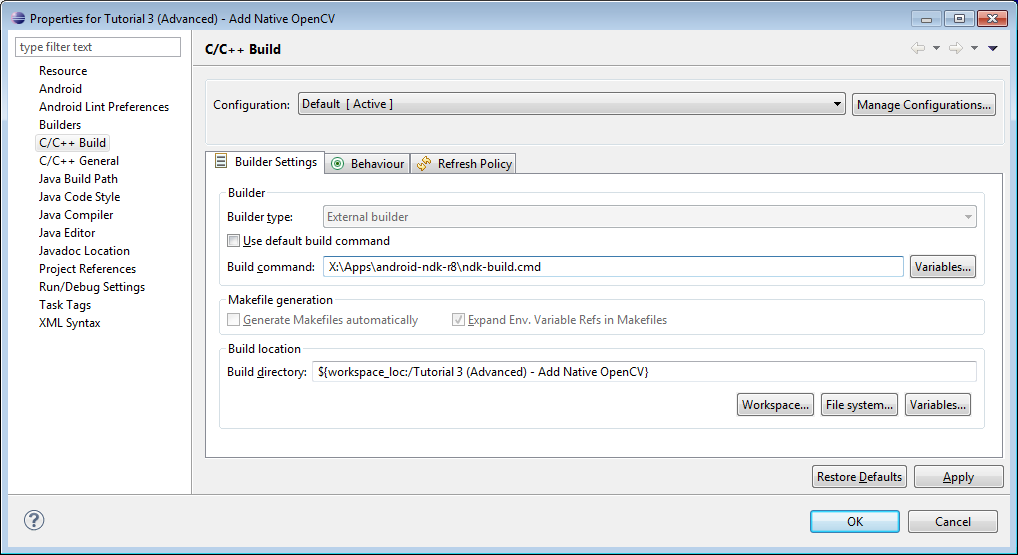
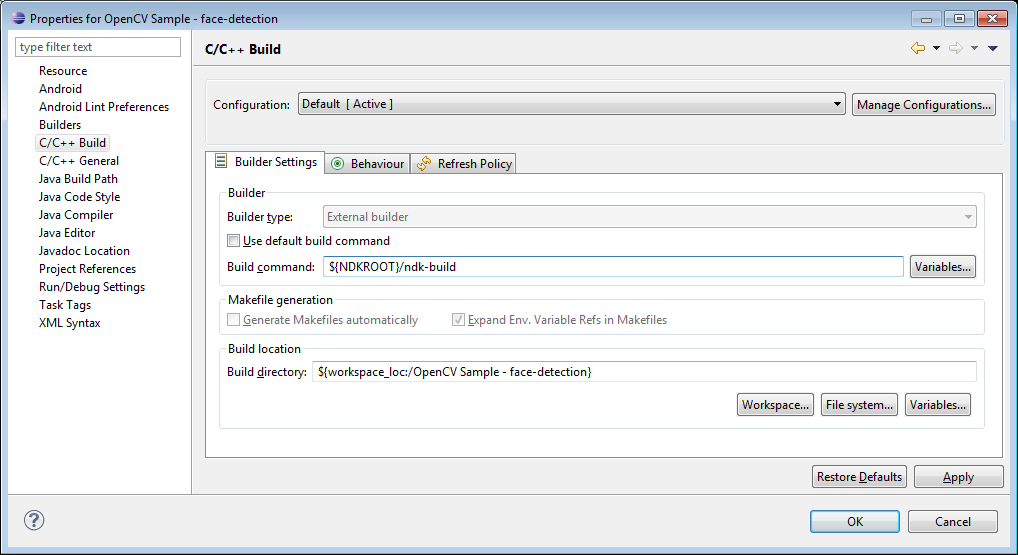
updating tutorial
git-svn-id: file://localhost/home/tolik/svnrepo/trunk@8908 c5418bc3-7546-4aae-8bad-fa6f2f3e53e6

diff --git a/opencv/doc/tutorials/introduction/android_binary_package/android_binary_package_using_with_NDK.rst b/opencv/doc/tutorials/introduction/android_binary_package/android_binary_package_using_with_NDK.rst
@@ -158,39 +158,18 @@ then paste the CDT 8.0 repository URL http://download.eclipse.org/tools/cdt/rele
 .. image:: images/eclipse_inst_cdt_2.png
   :alt: Configure builders
   :align: center
-.. important:: This instructions should be applied for each Android project in *Eclipse* workspace having native (JNI) part to build.
 
-#. Right click on your project in :guilabel:`Package Explorer`  window and select :guilabel:`New` -> :guilabel:`Other`:
+  
+.. important:: OpenCV 2.4.2 for Android package contains samples projects pre-configured to use CDT Builder for JNI part build via ``ndk-build``.
 
-     .. image:: images/eclipse_cdt_cfg1.png
-        :alt: Configure CDT
-        :align: center
+#. Define the ``NDKROOT`` environment variable containing the path to Android NDK in your system (e.g. **"X:\\Apps\\android-ndk-r8"** or **"/opt/android-ndk-r8"**)
 
-#. Select :guilabel:`C/C++` -> :guilabel:`Convert to C/C++ project`:
+#. CDT Builder is configured for Windows hosts, on Linux or MacOS open `Project Properties` of the projects having JNI part (`face-detection`, `Tutorial 3` and `Tutorial 4`), select :guilabel:`C/C++ Build`   in the left pane, remove **".cmd"** and leave ``"${NDKROOT}/ndk-build"`` in the :guilabel:`Build command`   edit box and click :guilabel:`OK`.
 
-     .. image:: images/eclipse_cdt_cfg2.png
-        :alt: Configure CDT
-        :align: center
-
-#. Select :guilabel:`"C++"`, :guilabel:`"Makefile Project"`, :guilabel:`"Other Toolchain"`:
-
-     .. image:: images/eclipse_cdt_cfg3.png
-        :alt: Configure CDT
-        :align: center
-
-#. Right click on your project in :guilabel:`Package Explorer`  window and select :guilabel:`Properties`, then :guilabel:`C/C++ Build`  in the left pane.
-     Unckeck :guilabel:`Use default build command` and put ``ndk-build`` invocation in the :guilabel:`Build command` edit box and click :guilabel:`Apply` :
 
      .. image:: images/eclipse_cdt_cfg4.png
         :alt: Configure CDT
         :align: center
-
-#. Select :guilabel:`Builders` in the left pane, select :guilabel:`"CDT Builder"`, press :guilabel:`Edit`  button on the righ and set check-boxes as on the picture below for automatic rebuild of JNI part:
-
-     .. image:: images/eclipse_cdt_cfg5.png
-        :alt: Configure CDT
-        :align: center
-
 
 #. Use menu :guilabel:`Project` -> :guilabel:`Clean...`  to make sure that NDK build is invoked on the project build:
 
@@ -243,7 +222,7 @@ OpenCV binary package includes 3 samples having JNI resources:
 
   This sample illustrates usage of both simple OpenCV face detector via Java API and advanced detection based face tracker via JNI and C++.
   
-Before OpenCV 2.4.2 for Android these projects are not configured to use CDT for building their native part , so you can do it yourself.
+.. important:: Before OpenCV **2.4.2** for Android these projects were not configured to use CDT for building their native part , so you can do it yourself.
 
 Practice: Create an Android application, which uses OpenCV
 ==========================================================
